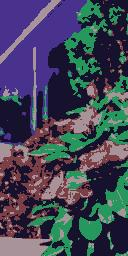
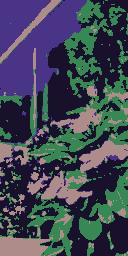
generalized k_means to take in input for k.

diff --git a/main.py b/main.py
@@ -6,54 +6,47 @@ import copy
 from random import randint
 from PIL import Image
 
-#K means with K set to 5.
-def k_means(pxLoad, width, height) :
+#K means for image averaging.
+def k_means(pxLoad, width, height, k) :
     print("Clustering... (This may take a while!)")
 
     #initialization
     averages = []
     clAvg = []
-
-    clAvg1 = [0,0]
-    clAvg2 = [0,0]
-    clAvg3 = [0,0]
-    clAvg4 = [0,0]
-    clAvg5 = [0,0]
+    for i in range(k):
+        clAvg.append([0,0])
     currLowestProximity = 2147483647
     sameAvgCounter = 0
     clusterLoopCounter = 0
 
     #ensures that every pixel chosen for the start of the cluster is different. 
-    while(clAvg1 == clAvg2 or clAvg1 == clAvg3 or clAvg1 == clAvg4 or clAvg1 == clAvg5 or clAvg2 == clAvg3 or clAvg2 == clAvg4 or clAvg2 == clAvg5 or clAvg3 == clAvg4 or clAvg3 == clAvg5 or clAvg4 == clAvg5) :
-        clAvg1 = [randint(0, width) , randint(0, height)]
-        clAvg2 = [randint(0, width) , randint(0, height)]
-        clAvg3 = [randint(0, width) , randint(0, height)]
-        clAvg4 = [randint(0, width) , randint(0, height)]
-        clAvg5 = [randint(0, width) , randint(0, height)]
-    
-    averages.append(pxLoad[clAvg1[0], clAvg1[1]])
-    averages.append(pxLoad[clAvg2[0], clAvg2[1]])
-    averages.append(pxLoad[clAvg3[0], clAvg3[1]])
-    averages.append(pxLoad[clAvg4[0], clAvg4[1]])
-    averages.append(pxLoad[clAvg5[0], clAvg5[1]])
+    while( not(noDup(clAvg)) ) :
+        for i in range(k):
+            clAvg[i] = [randint(0, width) , randint(0, height)]
+
+    for i in range(k):
+        averages.append(pxLoad[clAvg[i][0], clAvg[i][1]])
+
     
     #keeps iterating until the average color of each cluster no longer changes. 
     while(not(sameAvgCounter == 4)) :
         sameAvgCounter_old = sameAvgCounter
         sameAvgCounter = 0
-        clusters = [ [], [], [], [], [] ]
+        clusters = []
+        for i in range(k):
+            clusters.append([])
 
         #Iterates through all pixels, adding them to their respective cluster.
         for i in range(width):
             for j in range(height):
-                for k in range(len(averages)):
-                    proximityRed = abs(averages[k][0] - pxLoad[i,j][0])
-                    proximityGreen = abs(averages[k][1] - pxLoad[i,j][1])
-                    proximityBlue = abs(averages[k][2] - pxLoad[i,j][2])
+                for l in range(len(averages)):
+                    proximityRed = abs(averages[l][0] - pxLoad[i,j][0])
+                    proximityGreen = abs(averages[l][1] - pxLoad[i,j][1])
+                    proximityBlue = abs(averages[l][2] - pxLoad[i,j][2])
                     proximity = math.sqrt((proximityRed ** 2) + (proximityGreen ** 2) + (proximityBlue ** 2))
                     if(proximity < currLowestProximity):
                         currLowestProximity = proximity
-                        cluster = k
+                        cluster = l
                 
                 clusters[cluster].append(px[i,j])
                 currLowestProximity = 2147483647
@@ -64,10 +57,10 @@ def k_means(pxLoad, width, height) :
             redAvg = 0
             greenAvg = 0
             blueAvg = 0
-            for k in range(len(clusters[i])) :
-                redAvg = redAvg + clusters[i][k][0]
-                greenAvg = greenAvg + clusters[i][k][1]
-                blueAvg = blueAvg + clusters[i][k][2]
+            for j in range(len(clusters[i])) :
+                redAvg = redAvg + clusters[i][j][0]
+                greenAvg = greenAvg + clusters[i][j][1]
+                blueAvg = blueAvg + clusters[i][j][2]
 
             if( len(clusters[i]) ) :
                 redAvg = redAvg / len(clusters[i])
@@ -97,6 +90,7 @@ def k_means(pxLoad, width, height) :
     print(averages)
     return averages
 
+#helper function for k_means.
 def noDup(list) :
     for i in range(len(list)) :
         for j in range(len(list)) :
@@ -129,7 +123,8 @@ if __name__ == '__main__' :
 
     img = Image.open("image_process/image.jpg")
     px = img.load()
-    colors = k_means(px, width, height) #k_means to determine the 5 colors.
+    k = int(input("Please enter the number of colors you would like to average the image into: "))
+    colors = k_means(px, width, height, k) #k_means to determine the 5 colors.
 
     #Replacing the true colors of the left half of the image with the 5 colors.
 
